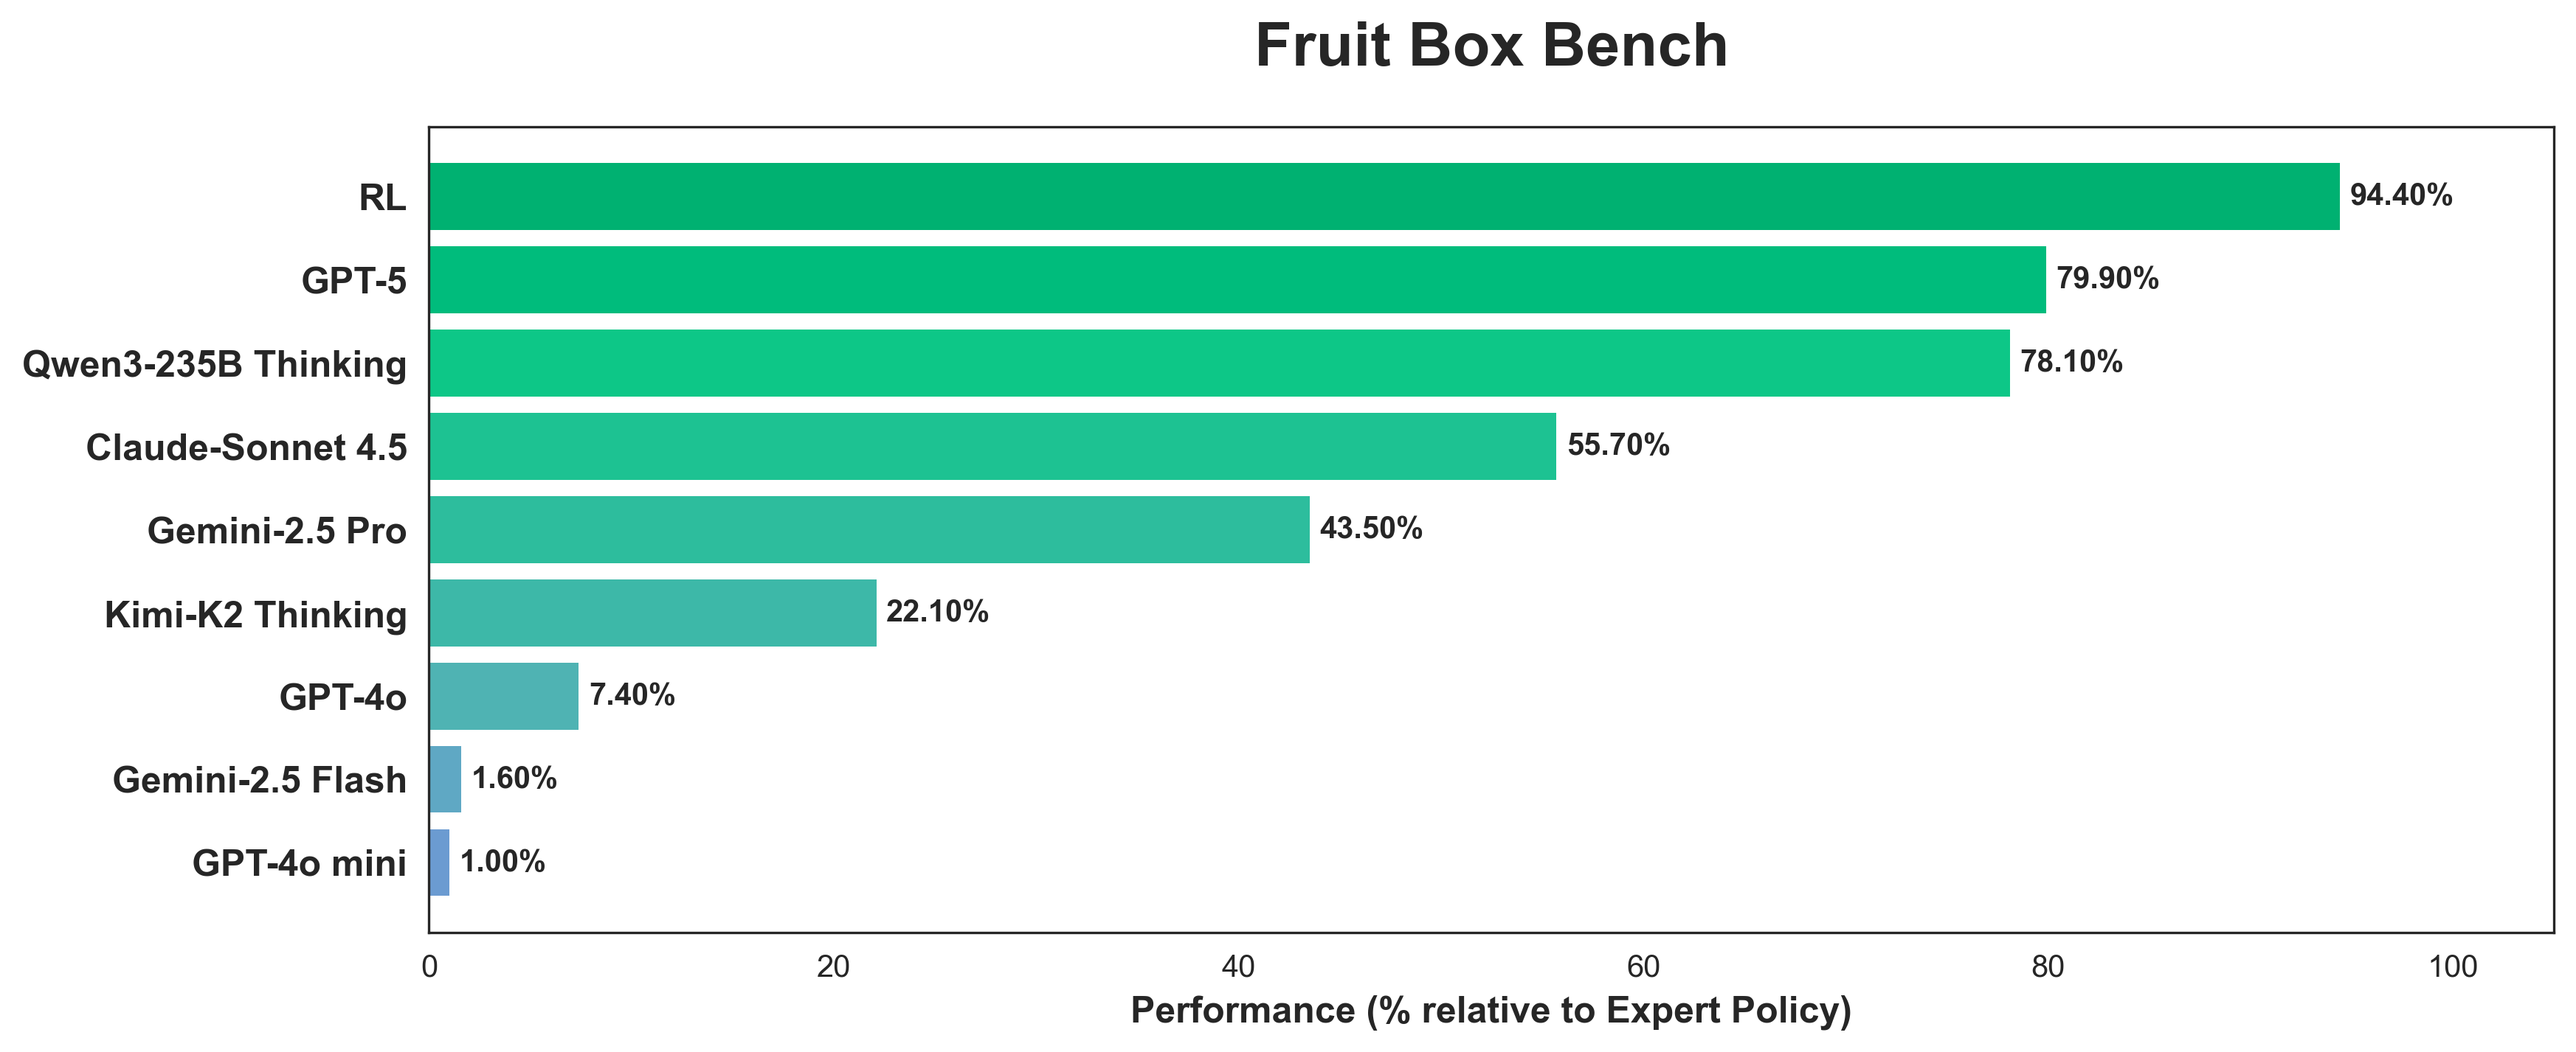
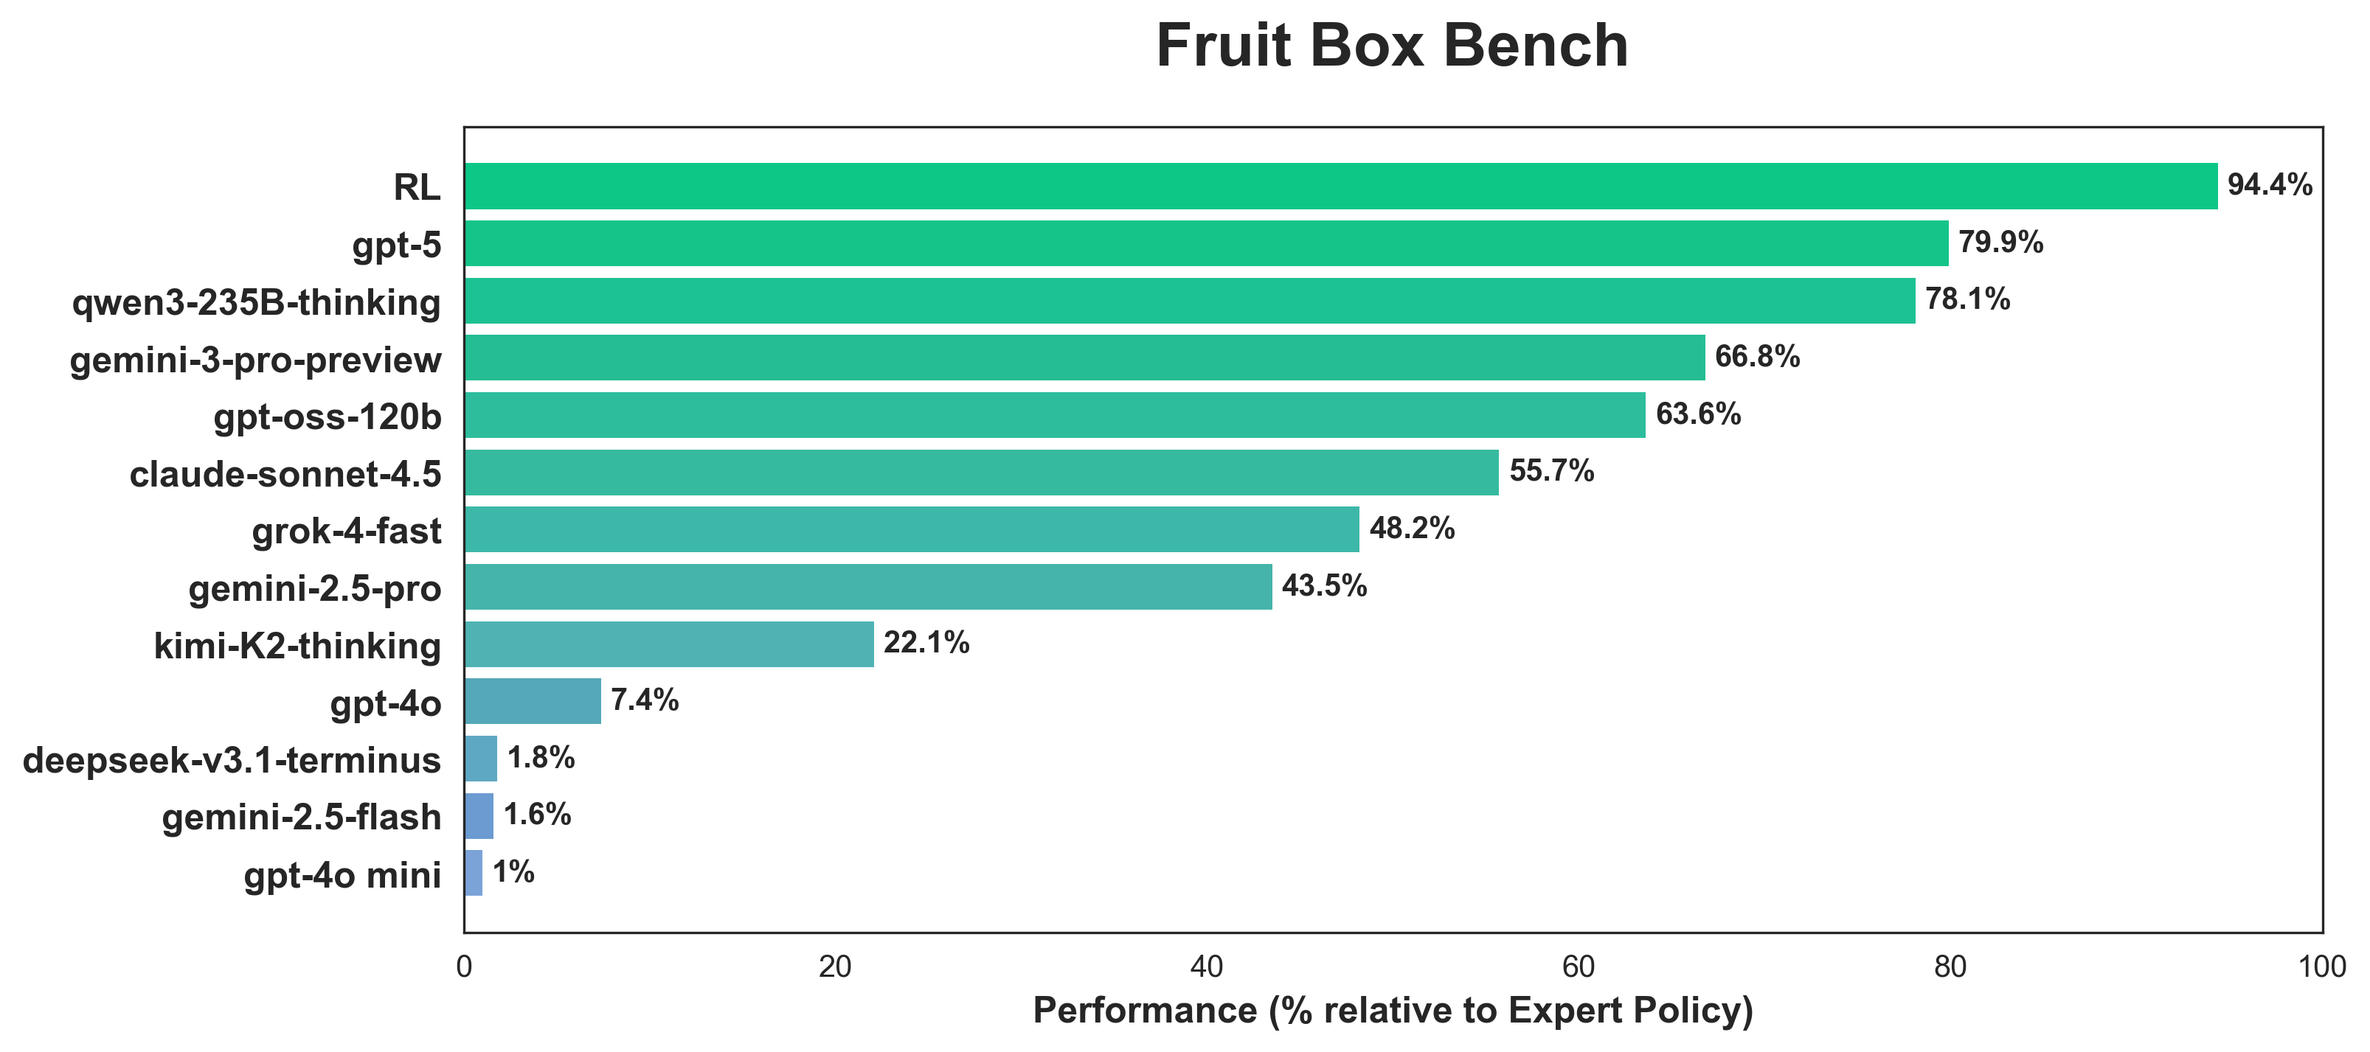
4 more models + updated image

diff --git a/visualize_benchmark.py b/visualize_benchmark.py
@@ -9,14 +9,18 @@ plt.rcParams['figure.figsize'] = (12, 8)
 
 data = {
     'RL': 0.944,
-    'GPT-5': 0.799,
-    'Qwen3-235B Thinking': 0.781,
-    'Claude-Sonnet 4.5': 0.557,
-    'Gemini-2.5 Pro': 0.435,
-    'Kimi-K2 Thinking': 0.221,
-    'GPT-4o': 0.074,
-    'Gemini-2.5 Flash': 0.016,
-    'GPT-4o mini': 0.010,
+    'gpt-5': 0.799,
+    'qwen3-235B-thinking': 0.781,
+    'gemini-3-pro-preview': 0.668,
+    'gpt-oss-120b': 0.636,
+    'claude-sonnet-4.5': 0.557,
+    'grok-4-fast': 0.482,
+    'gemini-2.5-pro': 0.435,
+    'kimi-K2-thinking': 0.221,
+    'gpt-4o': 0.074,
+    'deepseek-v3.1-terminus': 0.018,
+    'gemini-2.5-flash': 0.016,
+    'gpt-4o mini': 0.010,
 }
 
 sorted_items = sorted(data.items(), key=lambda x: x[1], reverse=True)
@@ -25,8 +29,10 @@ models = [item[0] for item in sorted_items]
 percentages = [item[1] * 100 for item in sorted_items]
 
 color_list = [
-    '#6B9BD1', '#5FA8C4', '#4FB3B3', '#3DB8A8', '#2DBD9D',
-    '#1DC292', '#0DC787', '#00BC7C', '#00B171',
+    '#7BA3D8', '#6B9BD1', '#5FA8C4', '#54A8B7', '#4FB3B3',
+    '#45B5A9', '#3DB8A8', '#35BA9F', '#2DBD9D', '#25BE93',
+    '#1DC292', '#15C489', '#0DC787', '#07C97F', '#00BC7C',
+    '#00B875', '#00B171',
 ]
 
 if len(models) > len(color_list):
@@ -35,20 +41,22 @@ if len(models) > len(color_list):
 else:
     colors = [mcolors.to_rgba(color_list[i]) for i in range(len(models))]
 
-fig, ax = plt.subplots(figsize=(12, 4.5))
+fig, ax = plt.subplots(figsize=(10.5, 4.5))
 ax.grid(False)
 
 bars = ax.barh(models, percentages, color=colors, edgecolor='none', height=0.8)
 
 for i, (bar, pct) in enumerate(zip(bars, percentages)):
     width = bar.get_width()
+    # Format percentage to remove trailing zeros (e.g., 94.4% instead of 94.40%)
+    pct_str = f'{pct:.1f}%'.replace('.0%', '%')
     ax.text(width + 0.5, bar.get_y() + bar.get_height()/2, 
-            f'{pct:.2f}%', 
+            pct_str, 
             ha='left', va='center', fontsize=10, fontweight='bold')
 
 ax.set_xlabel('Performance (% relative to Expert Policy)', fontsize=12, fontweight='bold')
 ax.set_title('Fruit Box Bench', fontsize=20, fontweight='bold', pad=20)
-ax.set_xlim(0, 105)
+ax.set_xlim(0, 100)
 
 ax.tick_params(axis='y', labelsize=12)
 for label in ax.get_yticklabels():
